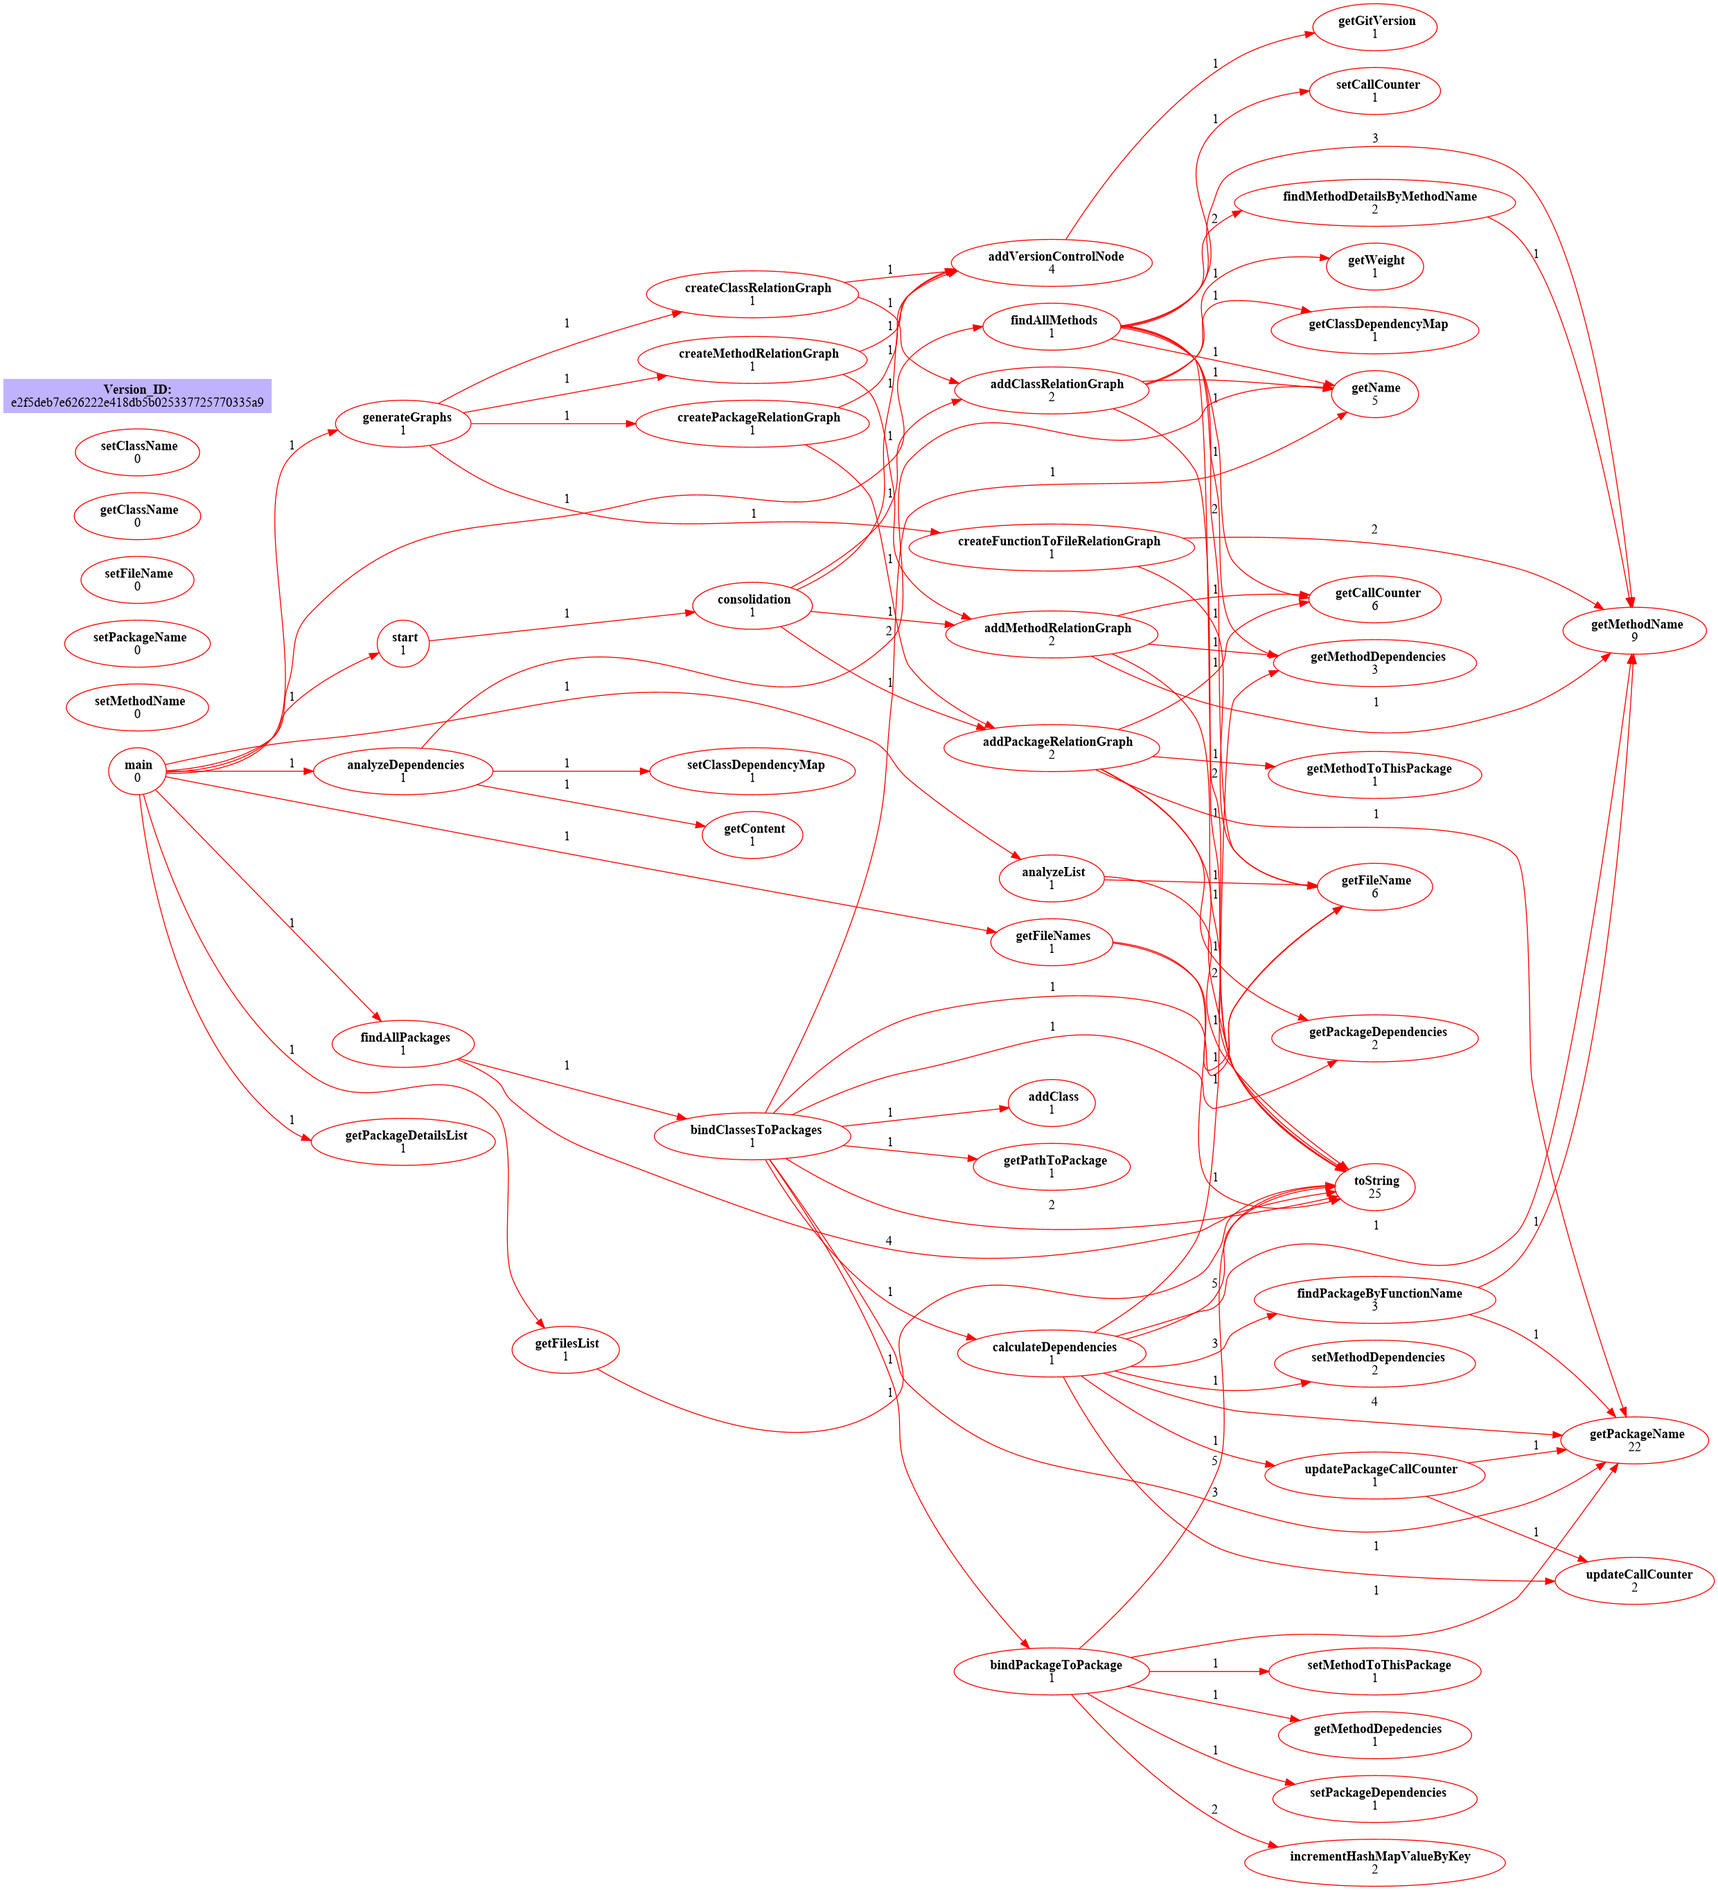
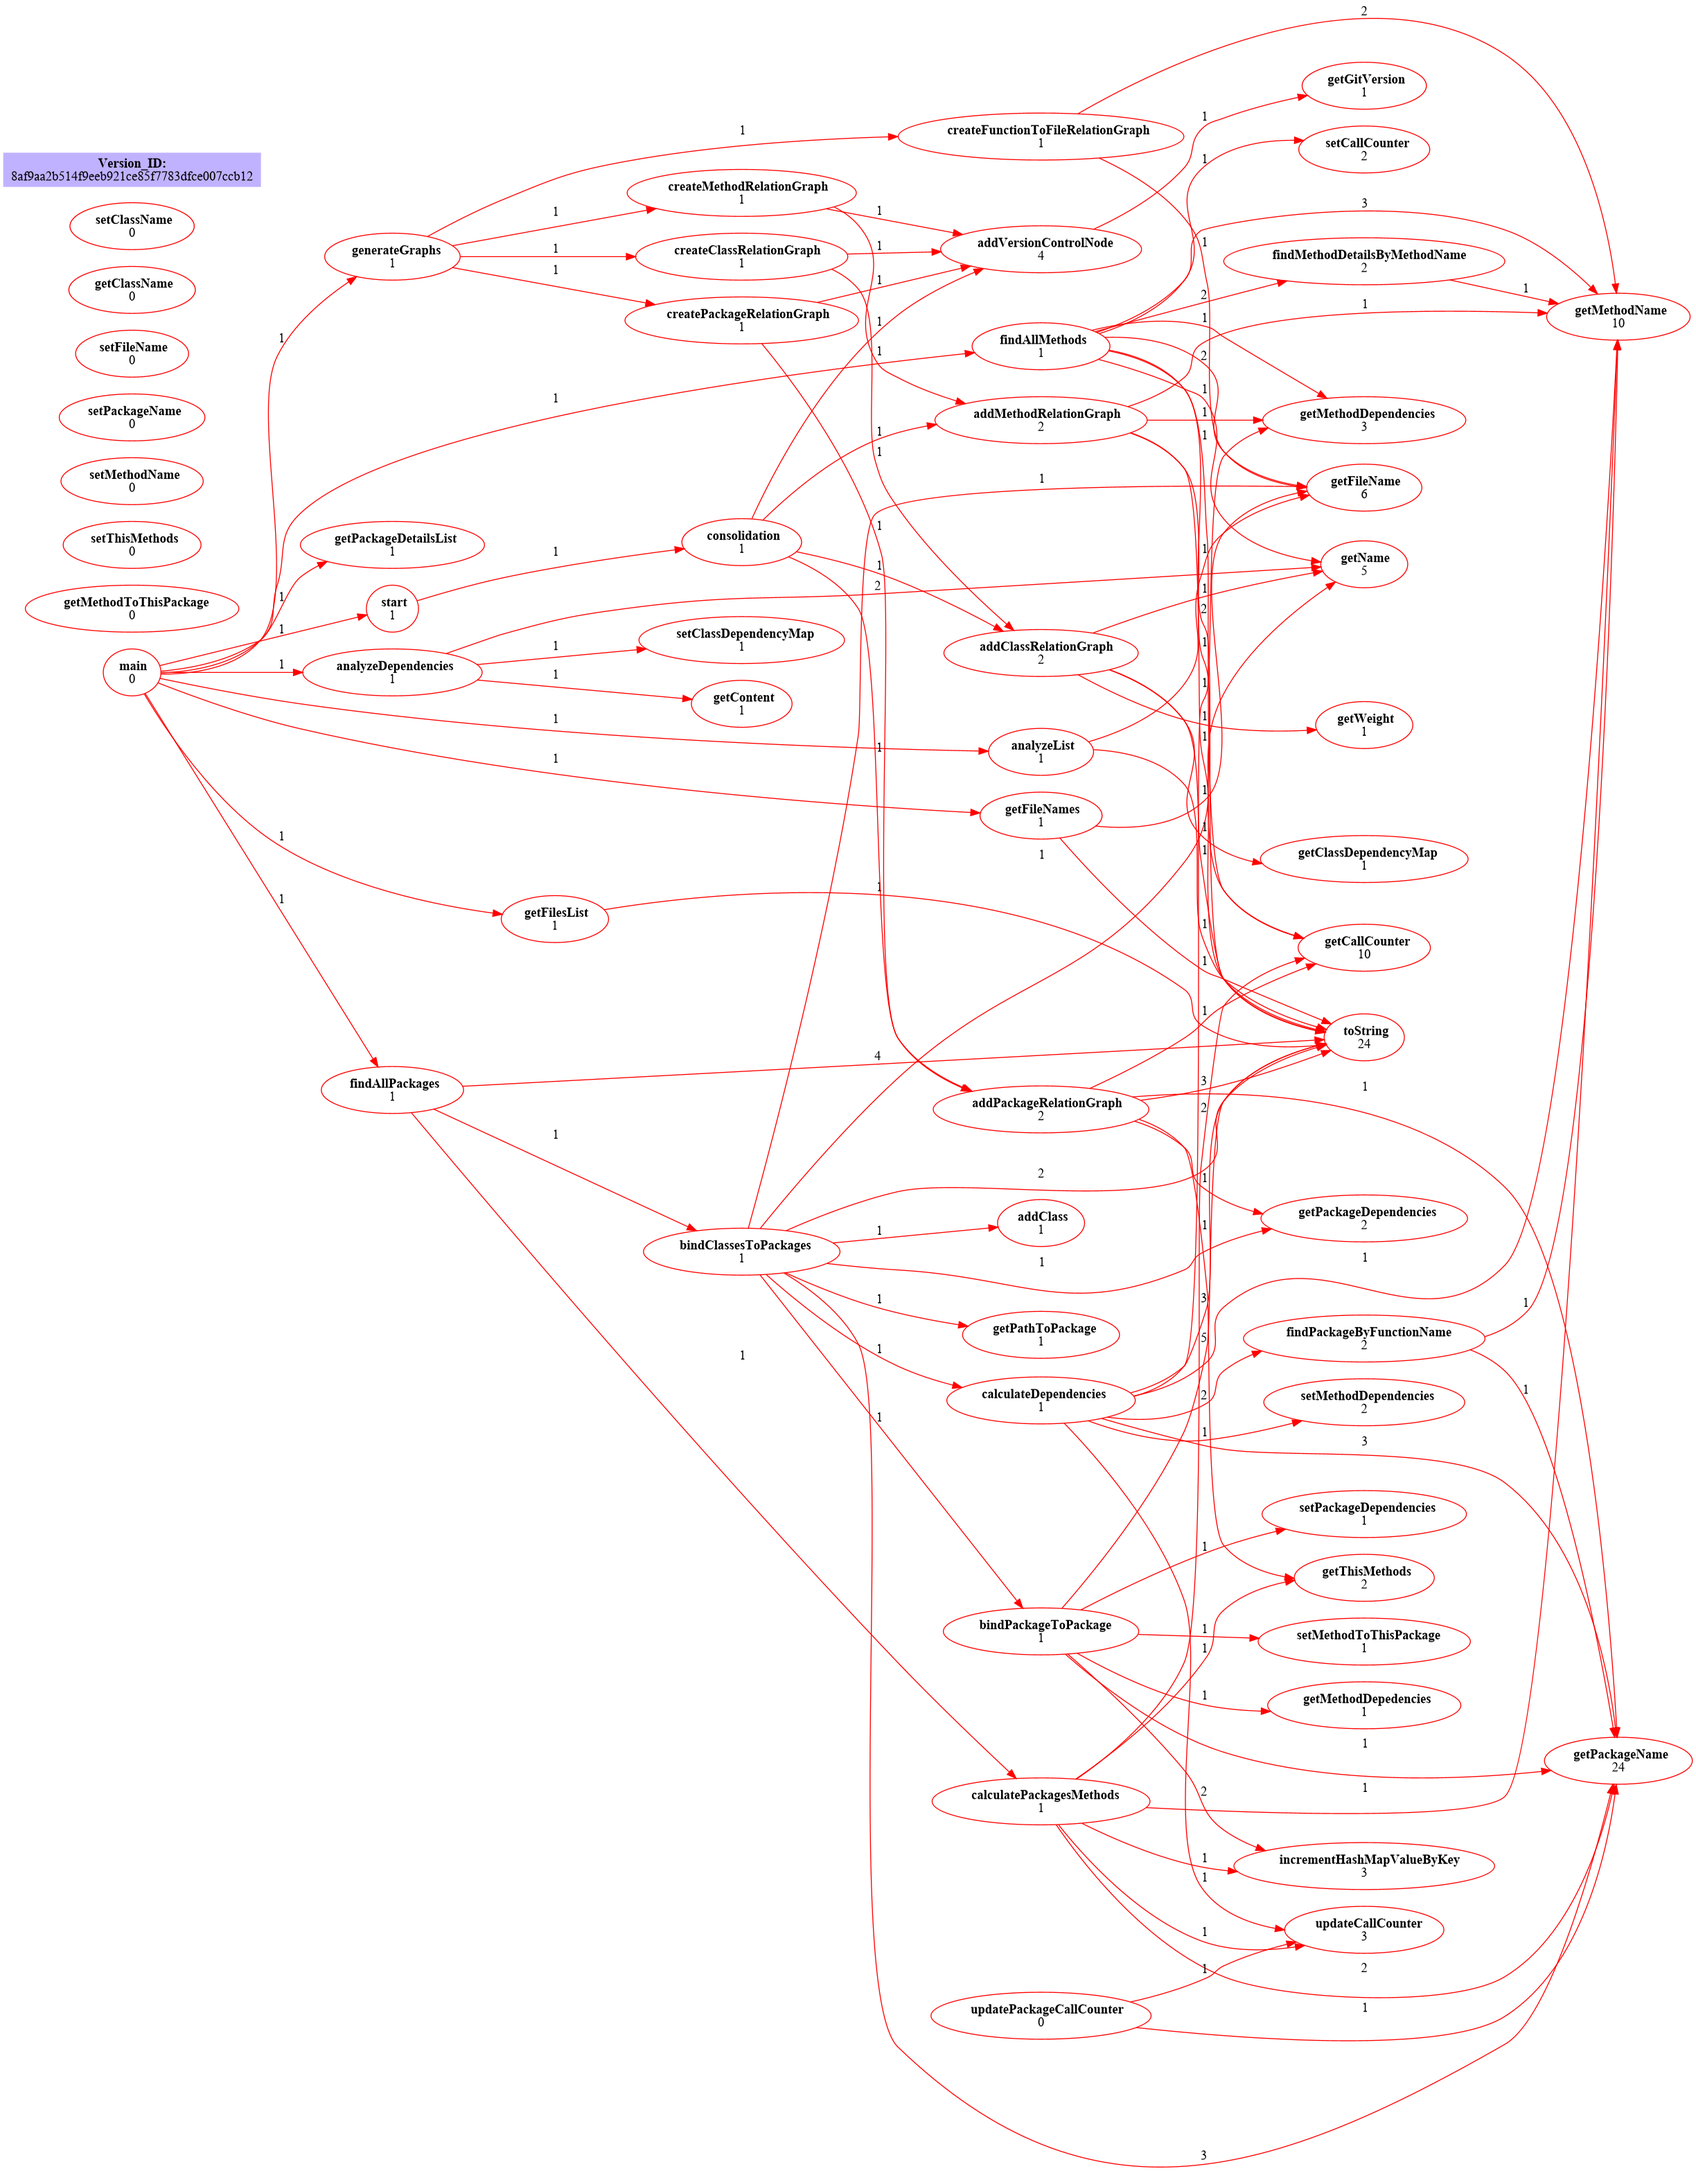
Skonczona historyjka 3 Wreszcie!!!!

diff --git a/src/main/java/com/IOgroup/graphs/Graphs.java b/src/main/java/com/IOgroup/graphs/Graphs.java
@@ -113,11 +113,11 @@ public class Graphs {  //https://github.com/nidi3/graphviz-java#complex-example
            //         toNodes2.add(to(node(packageName)).with(Label.of(packag.getValue().toString())));
            //     }
            //     mainNodes.add(methodNode.link(toNodes2));
-           // }
-            for(Map.Entry<String, Integer> method : onePackage.getMethodToThisPackage().entrySet()){
+           // } przestarzała wersja
+            for(Map.Entry<String, Integer> method : onePackage.getThisMethods().entrySet()){
                 String methodName = method.getKey();
                 Node methodNode = node(methodName).with(Label.of(methodName));
-                mainNodes.add(methodNode.link(to(mainNode).with(Label.of(method.getValue().toString()))));
+                if(!method.getValue().toString().equals("0")) mainNodes.add(methodNode.link(to(mainNode).with(Label.of(method.getValue().toString()))));
             }
 
         }

diff --git a/src/main/java/com/IOgroup/graphs/Story5Controller.java b/src/main/java/com/IOgroup/graphs/Story5Controller.java
@@ -43,7 +43,10 @@ public class Story5Controller {
         while(true){
 
             consolidation(files, methods, packages);
-            System.out.println("Zaladowano graf, odswiez plik aby zobaczyc zmiane");
+            System.out.println("Zaladowano graf, odswiez plik aby zobaczyc zmiane | false - warstwa wylaczona | true - warstwa wlaczana");
+            System.out.println("Warstwa plikow: " + files);
+            System.out.println("Warstwa metod: " + methods);
+            System.out.println("Warstwa pakietow: " + packages);
             System.out.println("Wpisujac odpowiednia cyfre mozesz wlaczac/wylaczac warstwy:");
             System.out.println("1. Warstwa relacji plikow");
             System.out.println("2. Warstwa relacji metod");

diff --git a/src/main/java/com/IOgroup/fileAnalysis/PackageAnalyzer.java b/src/main/java/com/IOgroup/fileAnalysis/PackageAnalyzer.java
@@ -160,7 +160,7 @@ public class PackageAnalyzer {
             for(PackageDetails packageDetails : packageDetailsList){
                 if(packageDetails.getPackageName().equals(methodDetails.getPackageName())) packageDetailsTmp=packageDetails;
             }
-            incrementHashMapValueByKey(methodDetails.getMethodName() + "." + methodDetails.getCallCounter(),
+            incrementHashMapValueByKey(methodDetails.getMethodName(),
                     methodDetails.getCallCounter(),
                     packageDetailsTmp.getThisMethods());
                     packageDetailsTmp.updateCallCounter(methodDetails.getCallCounter());
